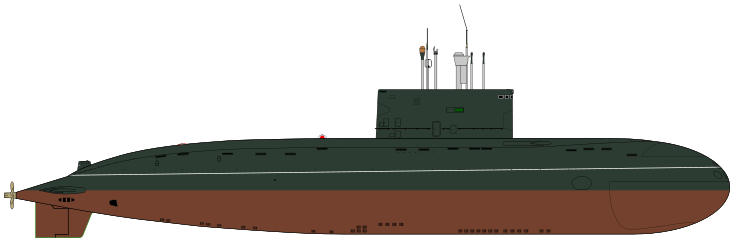
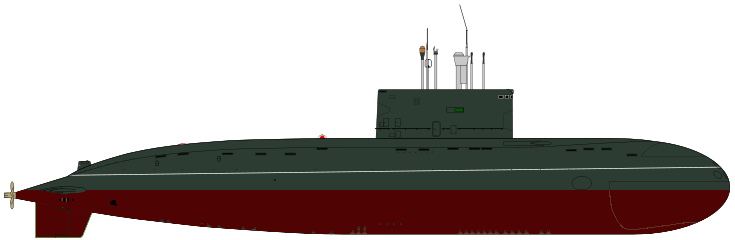
Three Levels Background

Changed region(s): [[0.0, 0.7875, 1.0, 0.9917]]

diff --git a/Game.py b/Game.py
@@ -28,6 +28,9 @@ BULLET_HEIGHT = 40
 BULLET_SPEED = 1
 MAX_BULLETS = 5
 
+LEVEL_1 = 0
+LEVEL_2 = 50
+LEVEL_3 = 100
 
 pygame.init()
 pygame.mixer.init()
@@ -41,17 +44,17 @@ clock = pygame.time.Clock()
 
 # Load Images
 background_image_1 = None
-try:
-    raw_image = pygame.image.load('./Sea.jpg')
-    background_image_1 = pygame.transform.scale(raw_image, (SCREEN_WIDTH, SCREEN_HEIGHT))
-except pygame.error as e:
-    print(f"Impossible de charger l'image de fond Sea.jpg : {e}\nFond noir par défaut.")
 background_image_2 = None
+background_image_3 = None
 try:
+    raw_image = pygame.image.load('./Sea1.jpg')
+    background_image_1 = pygame.transform.scale(raw_image, (SCREEN_WIDTH, SCREEN_HEIGHT))
     raw_image = pygame.image.load('./Sea2.png')
     background_image_2 = pygame.transform.scale(raw_image, (SCREEN_WIDTH, SCREEN_HEIGHT))
+    raw_image = pygame.image.load('./Sea3.png')
+    background_image_3 = pygame.transform.scale(raw_image, (SCREEN_WIDTH, SCREEN_HEIGHT))
 except pygame.error as e:
-    print(f"Impossible de charger l'image de fond Sea2.jpg : {e}\nFond noir par défaut.")
+    print(f"Impossible de charger l'image de fond Sea : {e}\nFond noir par défaut.")
 
 player_image = None
 try:
@@ -109,6 +112,7 @@ def message(msg, color, y_displace=0, font=font_style):
 def game_loop():
     game_over = False
     game_close = False
+    level = 1
 
     player_rect = pygame.Rect((SCREEN_WIDTH - PLAYER_WIDTH) / 2, 70, PLAYER_WIDTH, PLAYER_HEIGHT)
     player_x_change = 0
@@ -206,16 +210,26 @@ def game_loop():
         for bullet in bullet_list[:]:
             for enemy_data in enemy_list[:]:
                 if bullet.colliderect(enemy_data['rect']):
-                    if bullet in bullet_list: bullet_list.remove(bullet)
-                    if enemy_data in enemy_list: enemy_list.remove(enemy_data)
+                    if bullet in bullet_list:
+                        bullet_list.remove(bullet)
+                    if enemy_data in enemy_list:
+                        enemy_list.remove(enemy_data)
                     score += 2
+                    if score >= LEVEL_3:
+                        level = 3
+                    elif score >= LEVEL_2:
+                        level = 2
+                    else:
+                        level = 1
                     break
 
         # Print
-        if score < 50:
+        if level == 1:
             screen.blit(background_image_1, (0, 0)) if background_image_1 else screen.fill(BLACK)
-        else:
+        elif level == 2:
             screen.blit(background_image_2, (0, 0)) if background_image_2 else screen.fill(BLACK)
+        else:
+            screen.blit(background_image_1, (0, 0)) if background_image_1 else screen.fill(BLACK)
         
         draw_player(player_rect)
         for enemy in enemy_list: